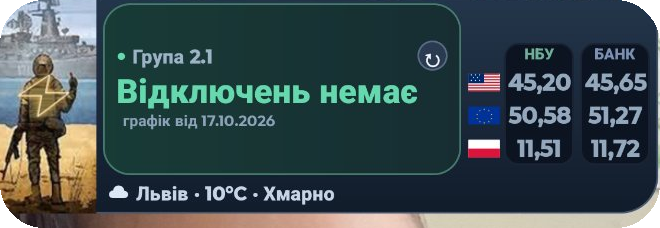
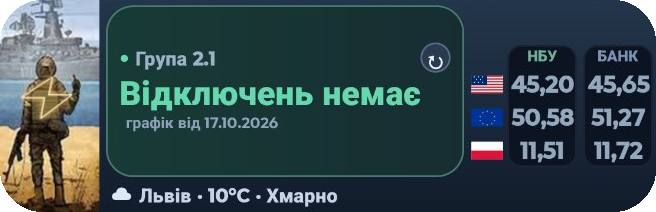
єСвітло 1.14.2

diff --git a/poweroninfo/index.html b/poweroninfo/index.html
@@ -19,8 +19,10 @@
   code { font-size: 13px; color: #B0BED1; word-break: break-all; }
   img.phone { display: block; width: 290px; max-width: 100%; margin: 0 auto;
                border-radius: 22px; border: 1px solid #304763; }
-  img.wide { display: block; width: 100%; border-radius: 18px; border: 1px solid #304763; }
+  img.wide, img.dialog { display: block; width: 100%; border-radius: 18px;
+                          border: 1px solid #304763; }
   figure { margin: 0; }
+  figure.dialog { margin: 18px 0 0; }
   figcaption { margin-top: 10px; font-size: 14px; color: #93A7BD; text-align: center; }
   .donate { text-align: center; margin: 34px 0 10px; }
   .donate a { color: #C5B4FF; font-weight: 700; text-decoration: none; font-size: 17px; }
@@ -42,15 +44,14 @@
     </p>
   </div>
 
-  
-  <h2>Як воно виглядає</h2>
-  <figure>
-    <img class="wide" src="widget.png" alt="Віджет єСвітло на головному екрані: статус світла, таймер і курси валют">
+    <h2>Як воно виглядає</h2>
+  <figure class="wide">
+    <img class="wide" src="widget.png" alt="Віджет: стан світла, таймер і курси — не відкриваючи застосунок">
     <figcaption>Віджет: стан світла, таймер і курси — не відкриваючи застосунок</figcaption>
   </figure>
 
-  <figure style="margin-top:26px">
-    <img class="phone" src="app.png" alt="Головний екран застосунку єСвітло">
+  <figure class="phone">
+    <img class="phone" src="app.png" alt="Головний екран">
     <figcaption>Головний екран</figcaption>
   </figure>
 
@@ -65,11 +66,27 @@
         електроенергію, у своєму ОСББ або в інших сервісах Львівобленерго.
         У застосунку це список «ГРУПА ГРАФІКА» вгорі екрана.</li>
     <li><b>Додати віджет.</b> Або довге натискання на порожньому місці
-        головного екрана → «Віджети» → єСвітло, або в застосунку —
-        шестерня вгорі праворуч → «Віджет на головний екран».</li>
+        головного екрана → «Віджети» → єСвітло, або в застосунку:
+        шестерня вгорі праворуч → «Віджет на екран» → «Додати віджет на екран».
+        У налаштуваннях віджета можна вимкнути погоду чи курс валют — графік
+        і таймер показуються завжди.</li>
+    <li><b>Подивитися версію й джерело даних.</b> Там же, під шестернею, є
+        «Про застосунок»: версія, посилання на Львівобленерго й примітка, що
+        застосунок неофіційний.</li>
     <li><b>Оновлювати.</b> Дані оновлюються самі раз на 30 хвилин; примусово —
         кнопкою ↻ у застосунку або на віджеті.</li>
   </ol>
+
+  <figure class="dialog">
+    <img class="dialog" src="menu.png" alt="Меню під шестернею: віджет, про застосунок, підтримка">
+    <figcaption>Меню під шестернею: віджет, про застосунок, підтримка</figcaption>
+  </figure>
+
+  <figure class="dialog">
+    <img class="dialog" src="widget-settings.png" alt="Налаштування віджета: що показувати">
+    <figcaption>Налаштування віджета: що показувати</figcaption>
+  </figure>
+
 
   <div class="card">
     <p style="margin:0 0 10px"><b>Що означає статус</b></p>
